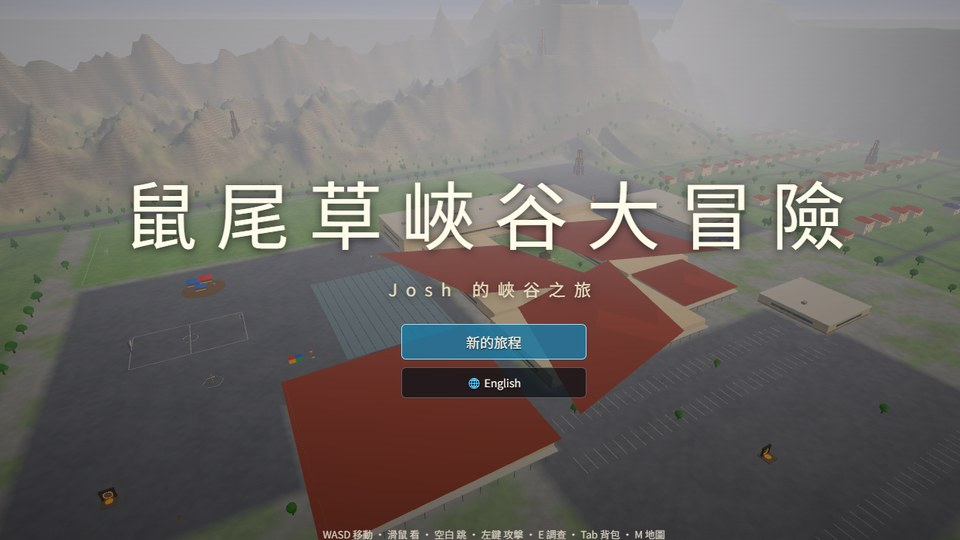
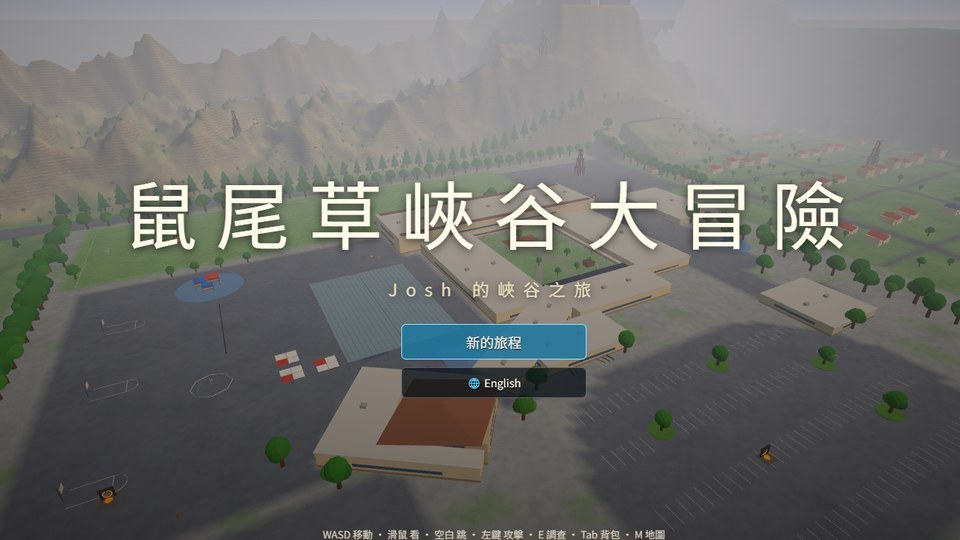
Sage Canyon Quest: new thumbnail

diff --git a/games.js b/games.js
@@ -13,7 +13,7 @@ window.GAMES = [
   {
     id: 'sagecanyon',
     url: '/sage-canyon/',
-    thumb: 'thumbs/sagecanyon.jpg?v=1',
+    thumb: 'thumbs/sagecanyon.jpg?v=2',
     color: '#5a8a4a',
     genres: ['action', 'rpg'],
     devices: ['keyboard', 'touch'],

diff --git a/index.html b/index.html
@@ -77,7 +77,7 @@
     </form>
   </div>
 
-  <script src="games.js?v=40"></script>
+  <script src="games.js?v=41"></script>
   <script src="app.js?v=10"></script>
   <script type="module" src="account.js?v=2"></script>
 </body>
